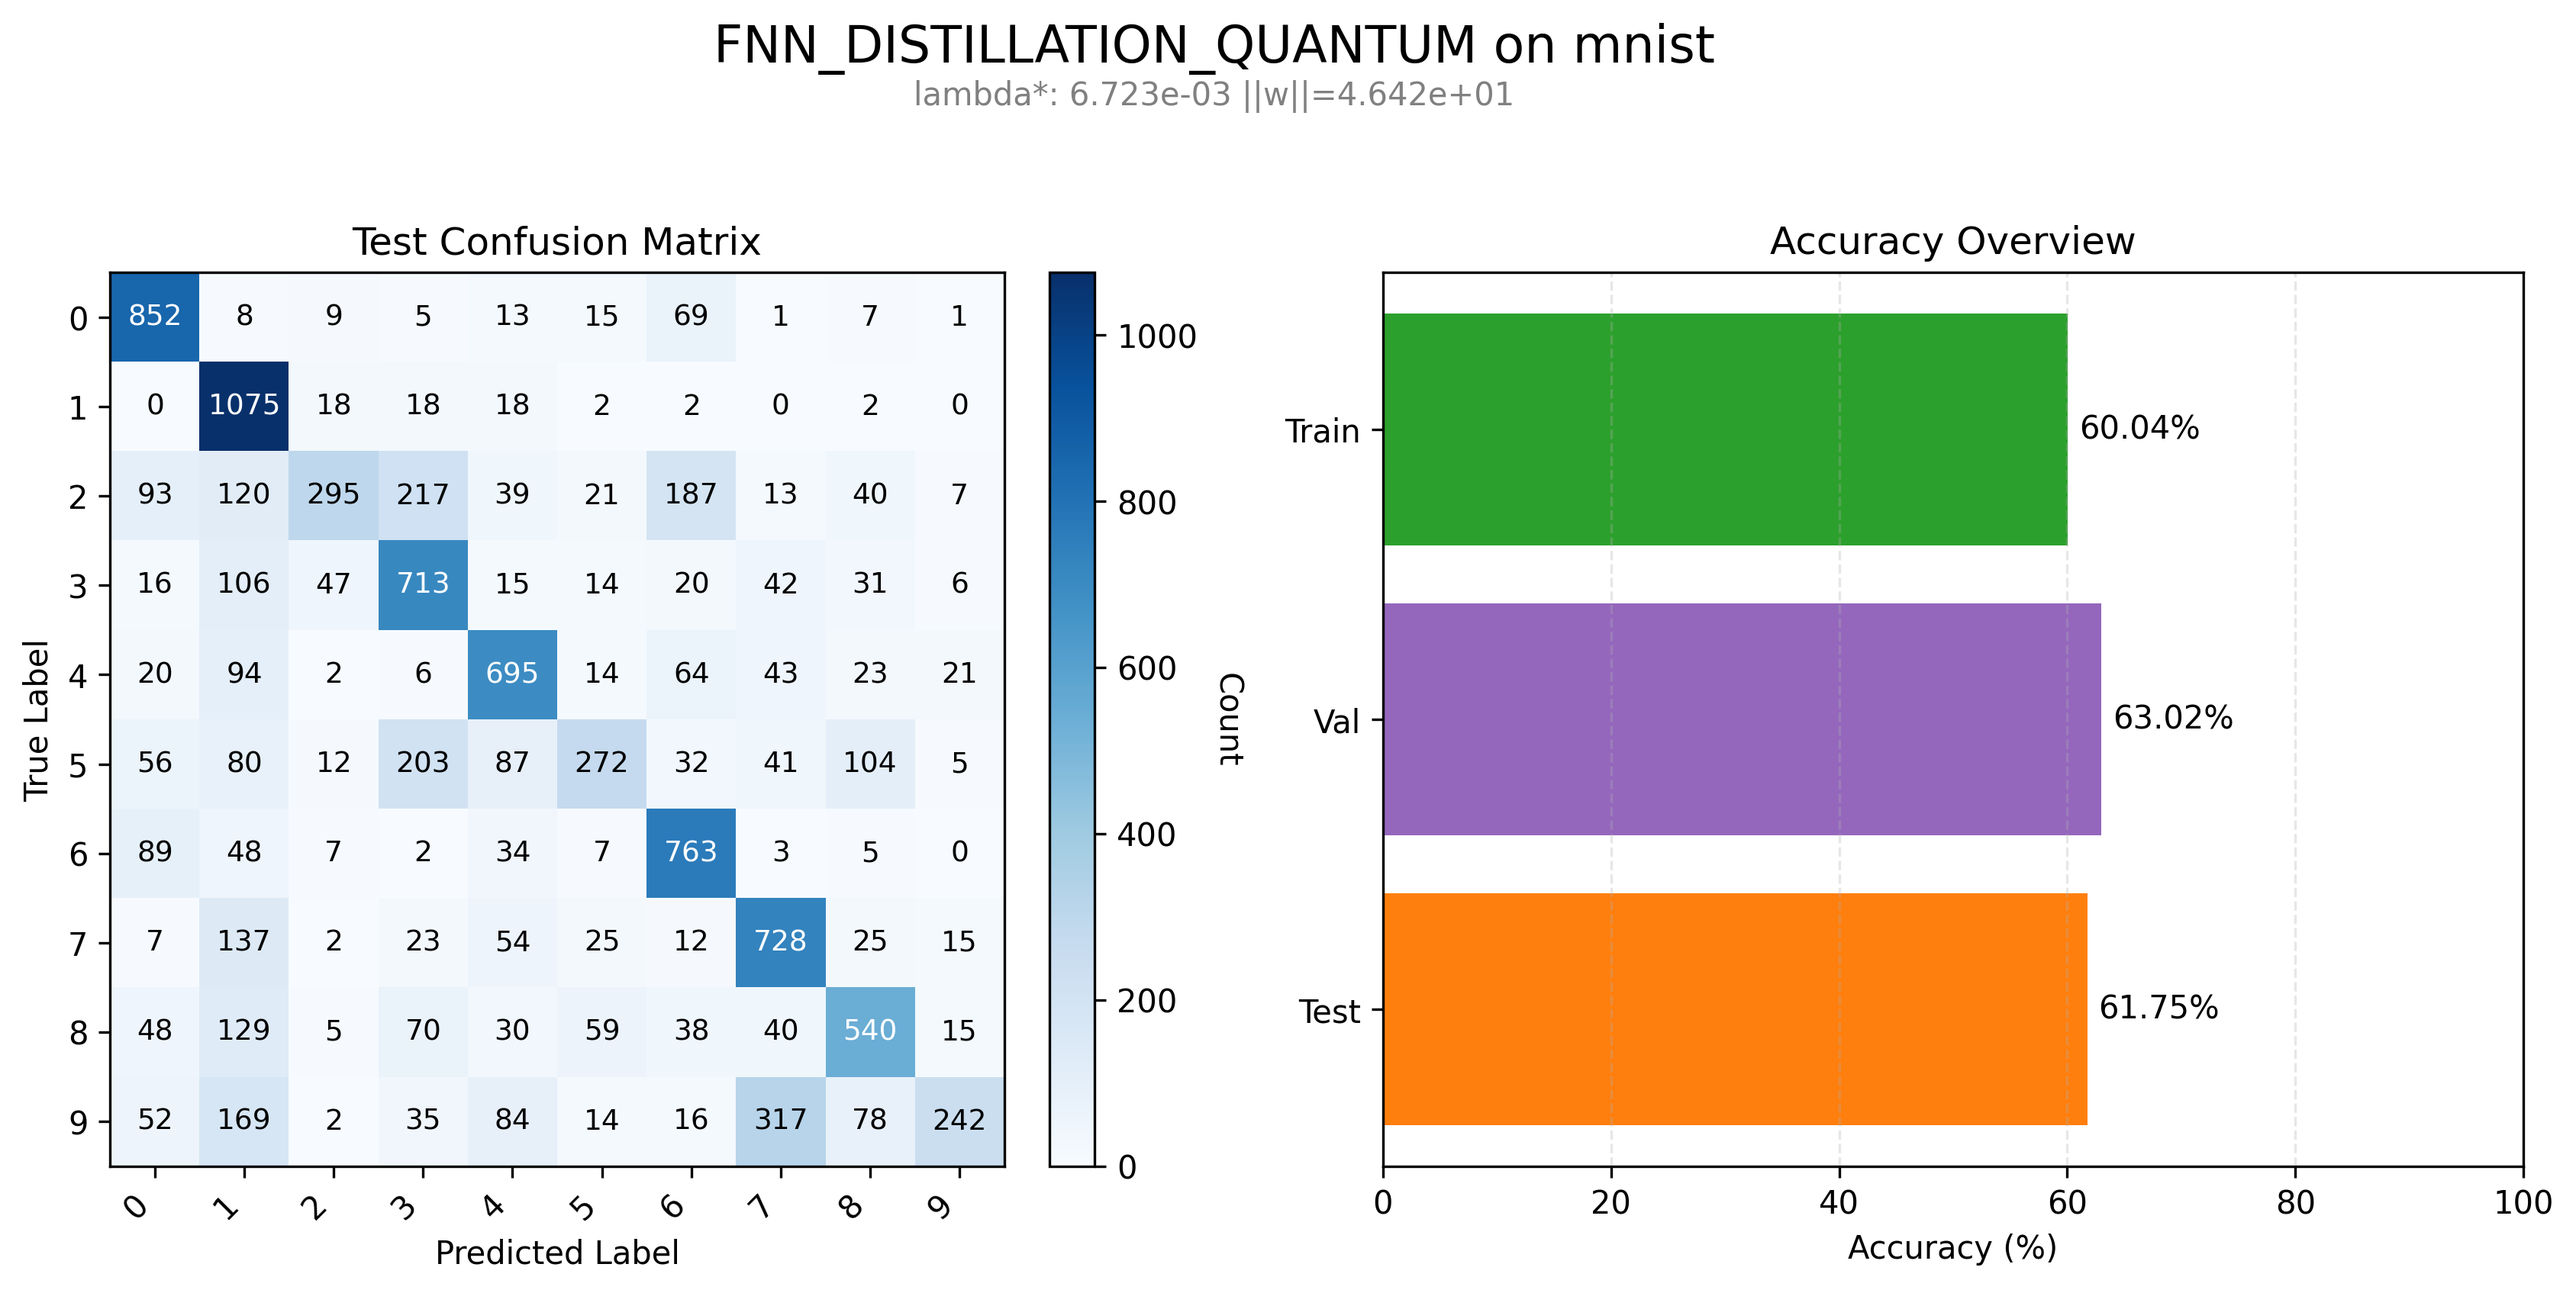
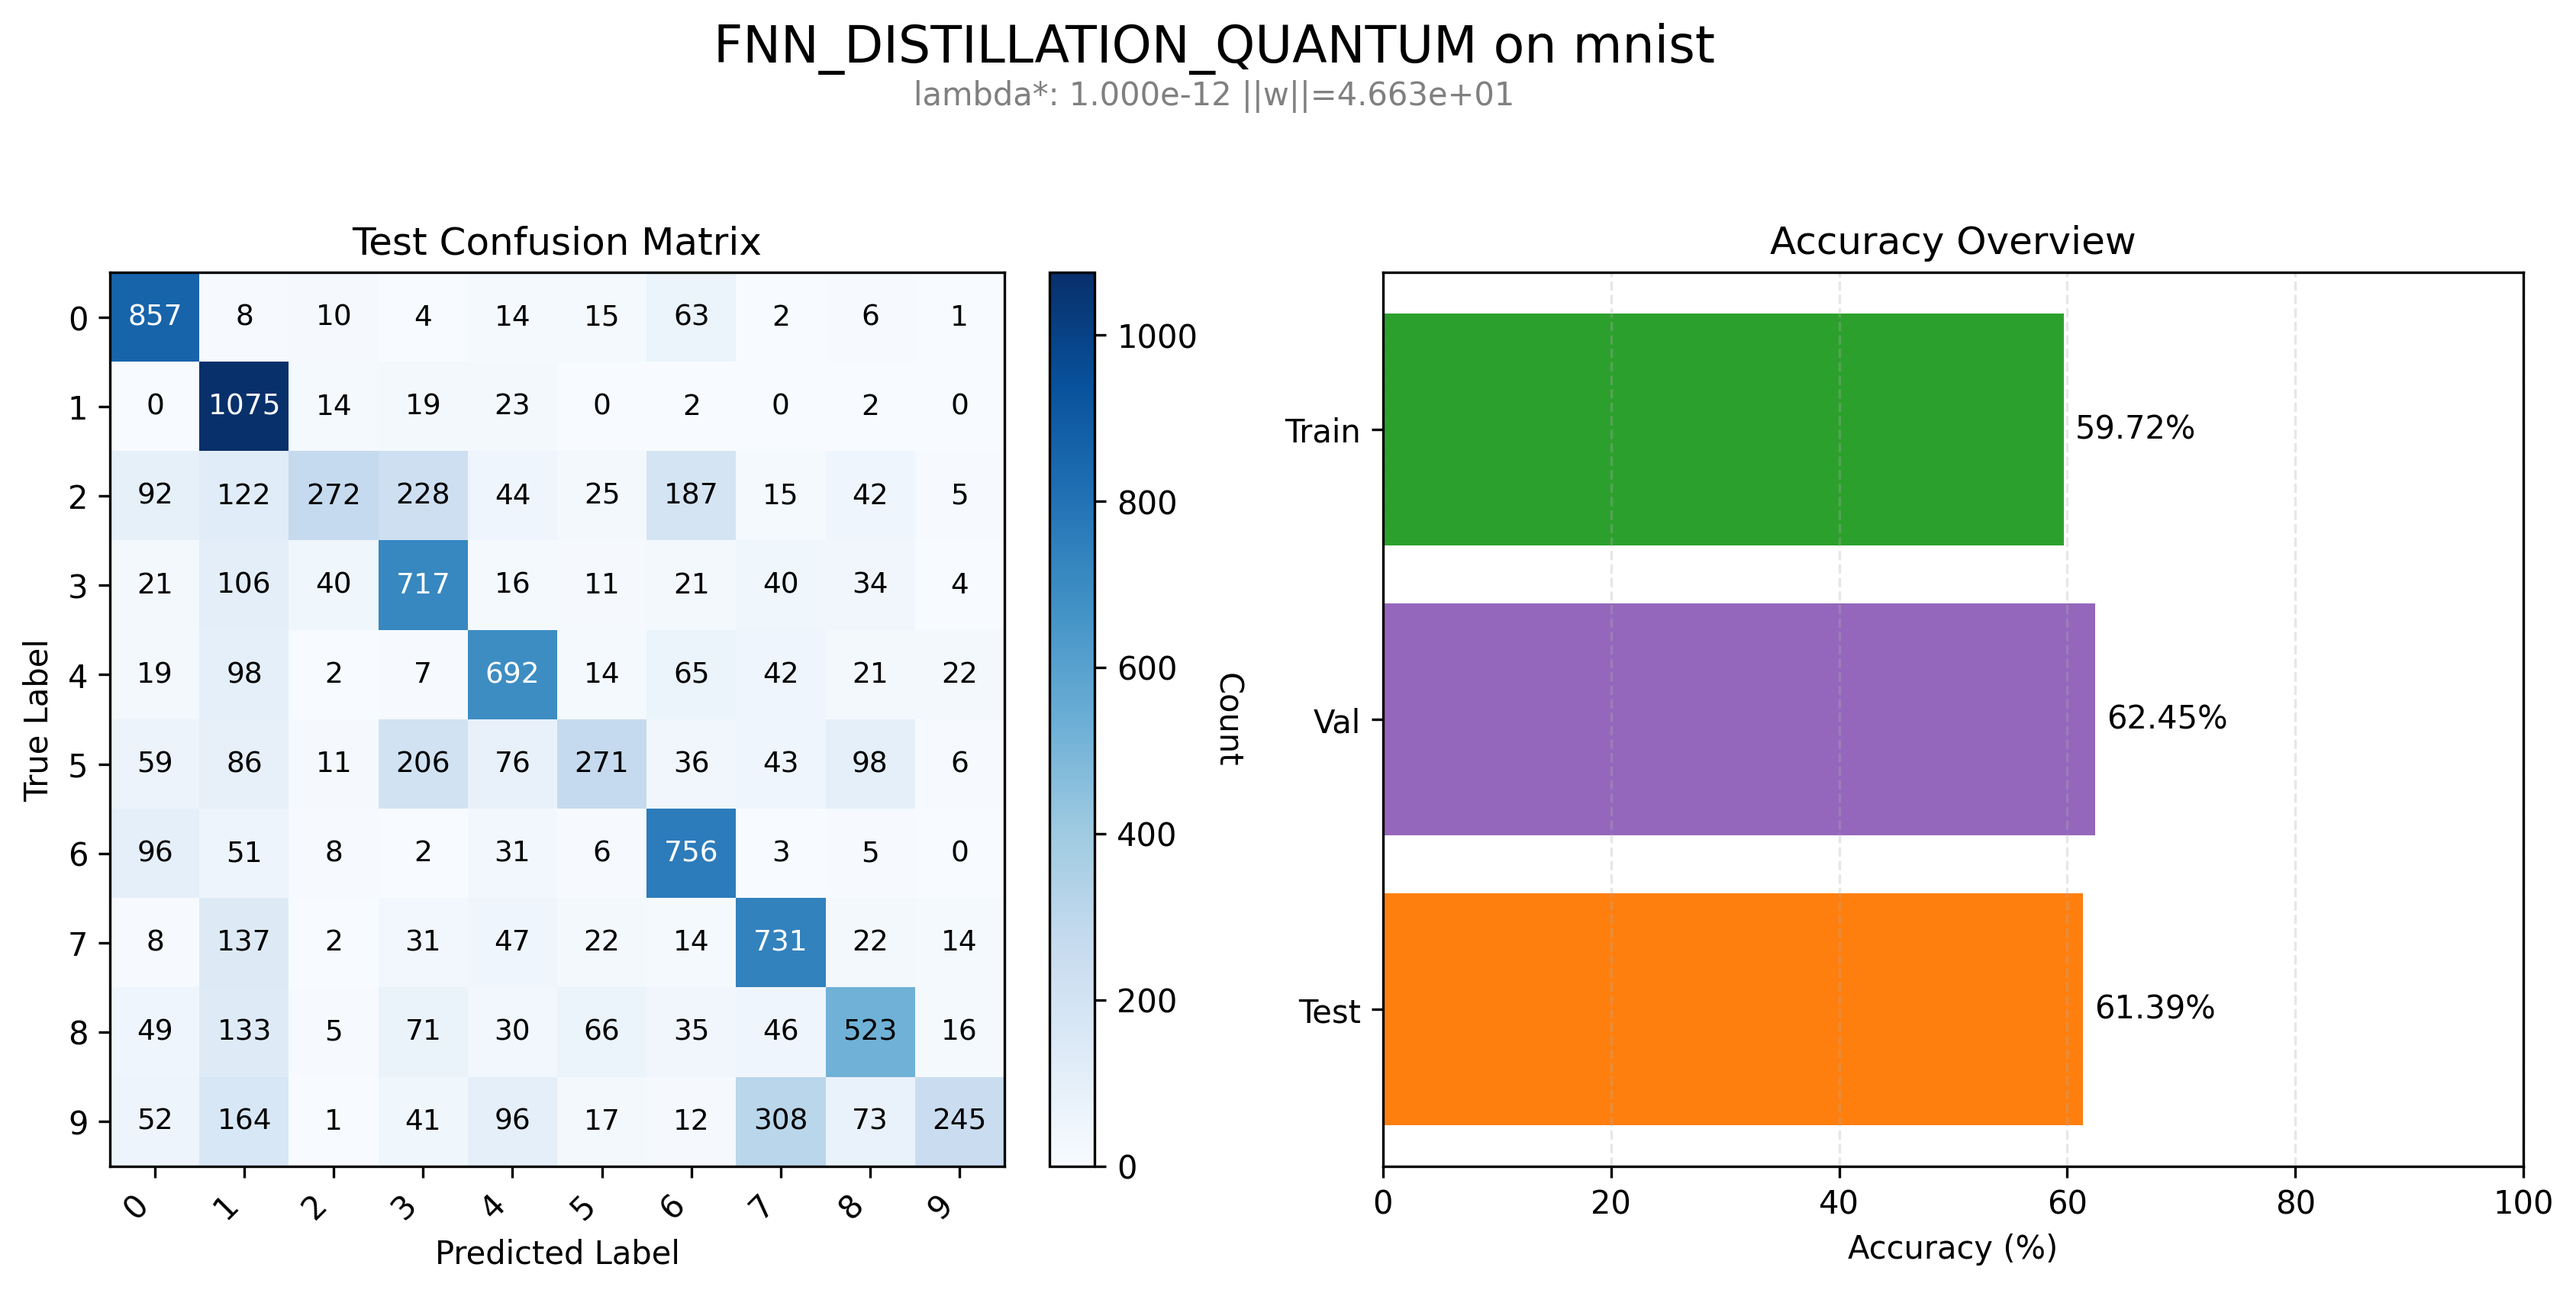
q10 mnist

diff --git a/src/reservoir/models/presets.py b/src/reservoir/models/presets.py
@@ -127,21 +127,21 @@ rs_denom = 2.0 * bound - maxminusmin
 rs = maxplusmin / rs_denom if rs_denom != 0 else 0.0
 
 BAS_MNIST = BoundedAffineScalerConfig(
-    scale=0.5630129536792166,  # 100
-    # scale=scale,  # 1200
-    relative_shift=-0.4680118430007132, # 100
-    # relative_shift=rs, # 1200
-    # bound=1.0,
+    # scale=0.5630129536792166,  # 100
+    scale=scale,  # 1200
+    # relative_shift=-0.4680118430007132, # 100
+    relative_shift=rs, # 1200
+    bound=1.0,
 )
 
 RP_MNIST = RandomProjectionConfig(
-    n_units=100,
-    input_scale=0.3543930218531782, #100
-    # input_scale=0.3478958243673553,  # 1200
-    input_connectivity=0.21745075681282766, #100
-    # input_connectivity=0.32024990697532185, # 1200
-    bias_scale=0.1725142451754484, #100
-    # bias_scale= 0.9911807193106197, # 1200
+    n_units=1200,
+    # input_scale=0.3543930218531782, #100
+    input_scale=0.3478958243673553,  # 1200
+    # input_connectivity=0.21745075681282766, #100
+    input_connectivity=0.32024990697532185, # 1200
+    # bias_scale=0.1725142451754484, #100
+    bias_scale= 0.9911807193106197, # 1200
     seed=1,
 )
 
@@ -149,12 +149,12 @@ RP_MNIST = RandomProjectionConfig(
 ###------Dynamics-------------------------------------------------
 
 CLASSICAL_RESERVOIR_DYNAMICS = ClassicalReservoirConfig(
-    spectral_radius= 1.921291918880454, #100
-    # spectral_radius= 1.4707341636189577,  # 1200
-    leak_rate= 0.36449529864842045, #100
-    # leak_rate= 0.5078438853580478, #1200
-    rc_connectivity=0.6784641706491135, #100
-    # rc_connectivity=0.0760855941265183,  # 1200
+    # spectral_radius= 1.921291918880454, #100
+    spectral_radius= 1.4707341636189577,  # 1200
+    # leak_rate= 0.36449529864842045, #100
+    leak_rate= 0.5078438853580478, #1200
+    # rc_connectivity=0.6784641706491135, #100
+    rc_connectivity=0.0760855941265183,  # 1200
 
     seed=42,
     aggregation=AggregationMode.MEAN,
@@ -173,9 +173,9 @@ CLASSICAL_RESERVOIR_PRESET = PipelineConfig(
     projection=RP_MNIST,
     model=CLASSICAL_RESERVOIR_DYNAMICS,
     # readout=FNNReadoutConfig(hidden_layers=(1000, 1000))
-    # readout=DEFAULT_RIDGE_READOUT
+    readout=DEFAULT_RIDGE_READOUT
     # readout=DEFAULT_POLY_SQUARE_ONLY_READOUT
-    readout=DEFAULT_POLY_INTERACTION_ONLY_READOUT
+    # readout=DEFAULT_POLY_INTERACTION_ONLY_READOUT
 )
 
 '''
@@ -221,10 +221,10 @@ FNN_PRESET = PipelineConfig(
 # scale = (max - min) / 2* bound
 # relative_shift = (max + min)/2 * bound - (max - min)
 
-# s, r, f, lr = 0.3084006355114488, -0.01206032906534976, 3.196929844938574, 0.15402317414946048 #6
-s, r, f, lr = 0.6090938771390537, 0.0, 3.141592653589793,  0.1616784879347744 # 10
+s, r, f, lr = 0.3084006355114488, -0.01206032906534976, 3.196929844938574, 0.15402317414946048 #6
+# s, r, f, lr = 0.6090938771390537, 0.0, 3.141592653589793,  0.1616784879347744 # 10
 QUANTUM_BAPCA = BoundedAffinePCAConfig(
-    n_units=10,
+    n_units=6,
     scale=s,
     relative_shift=r,
     bound=math.pi,
